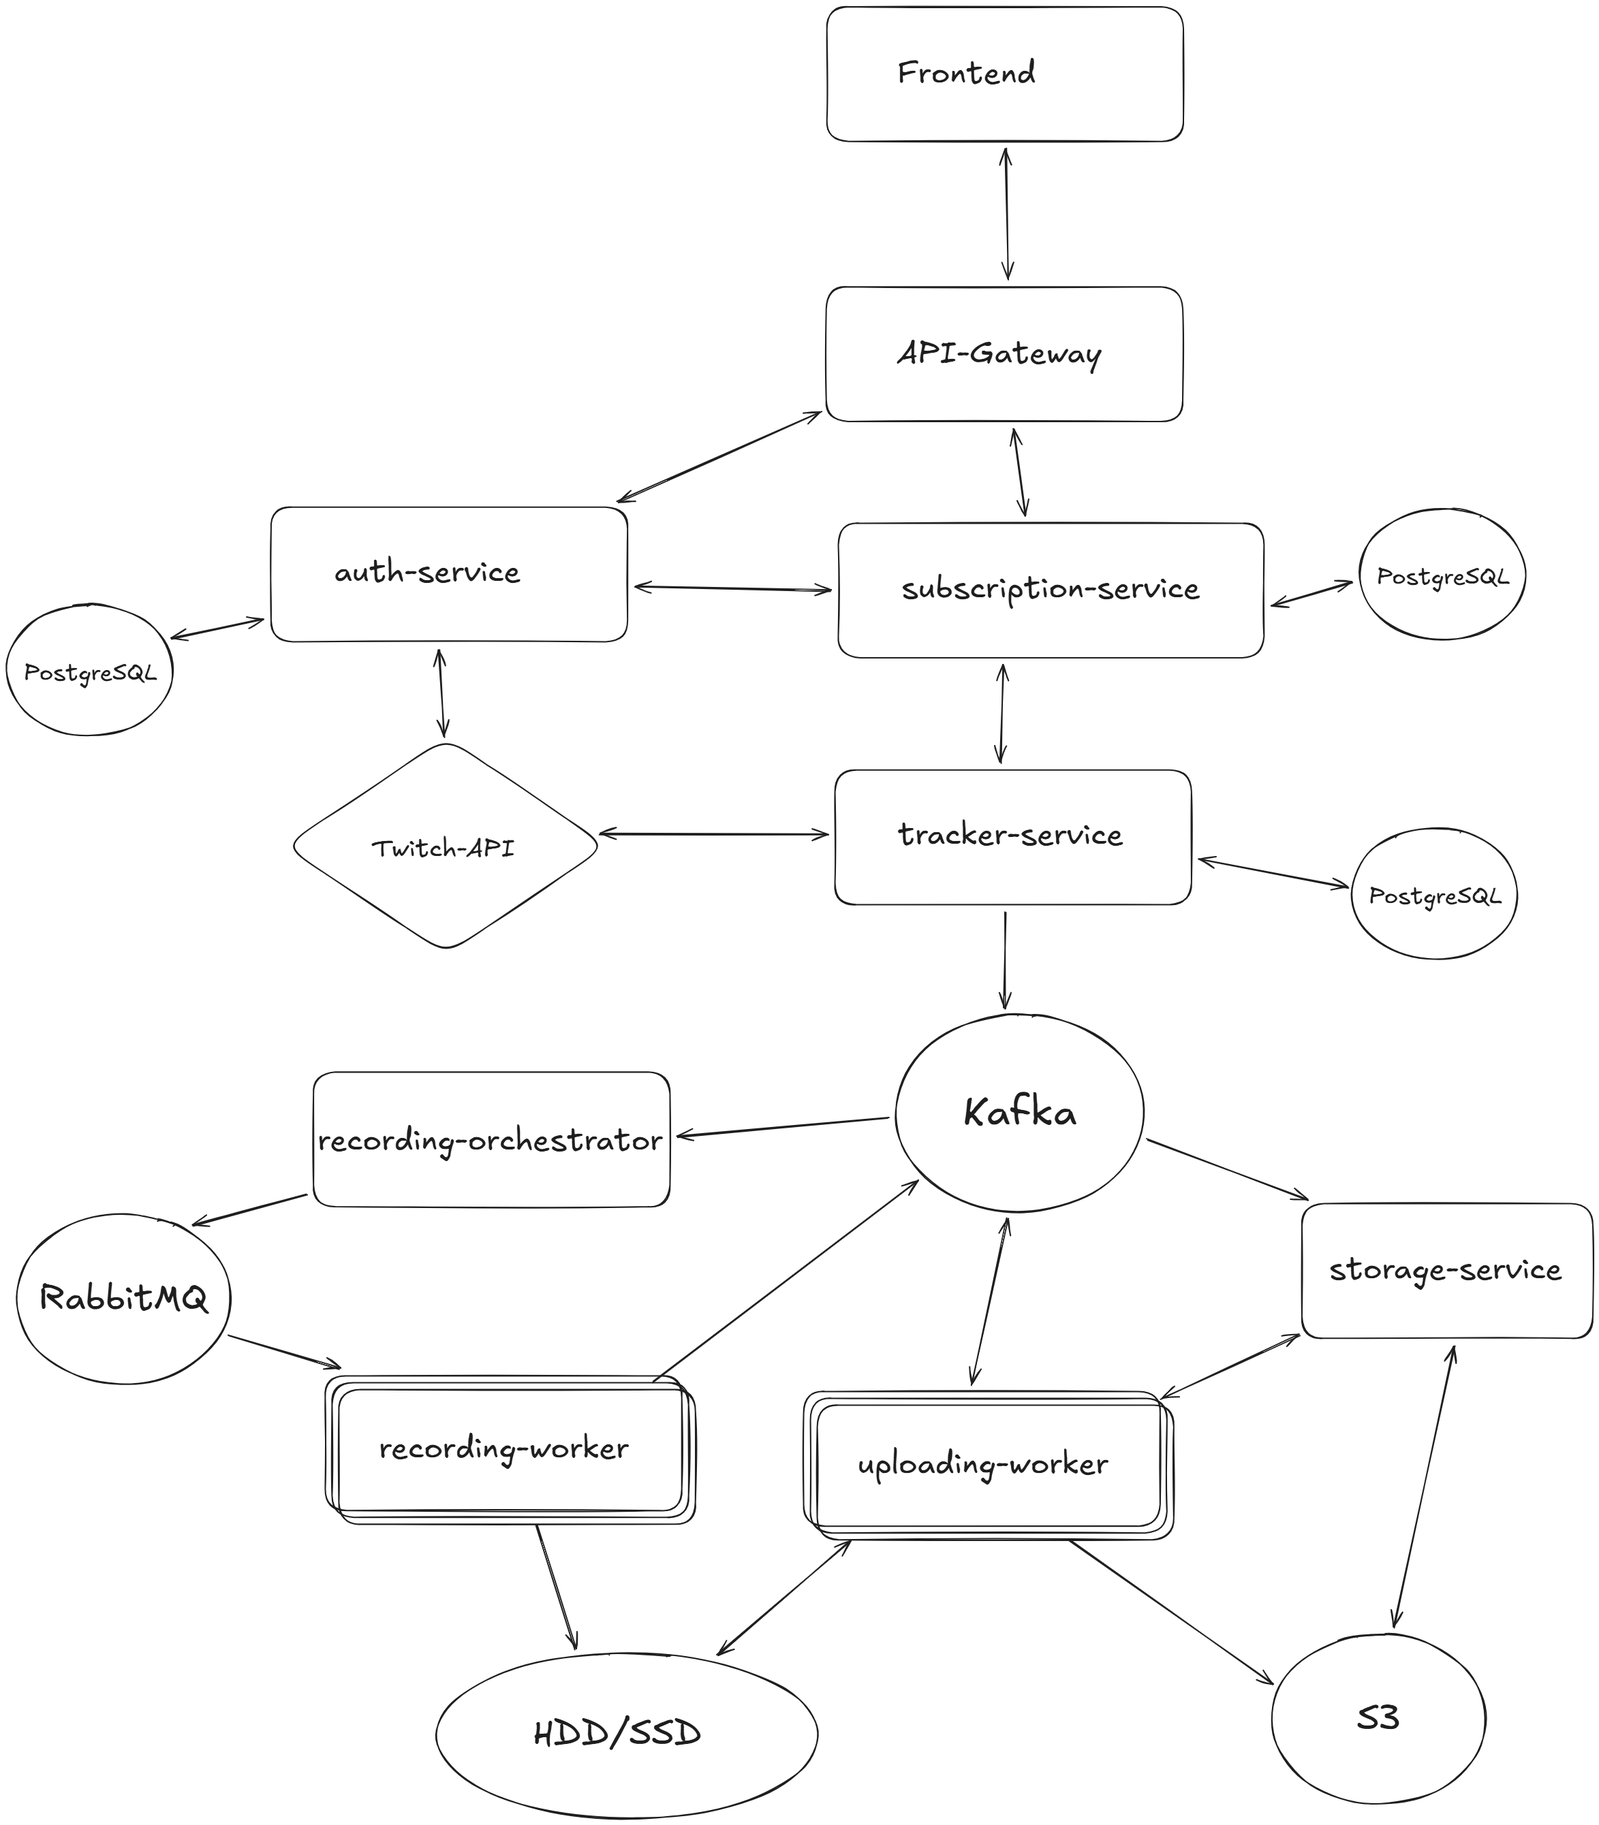
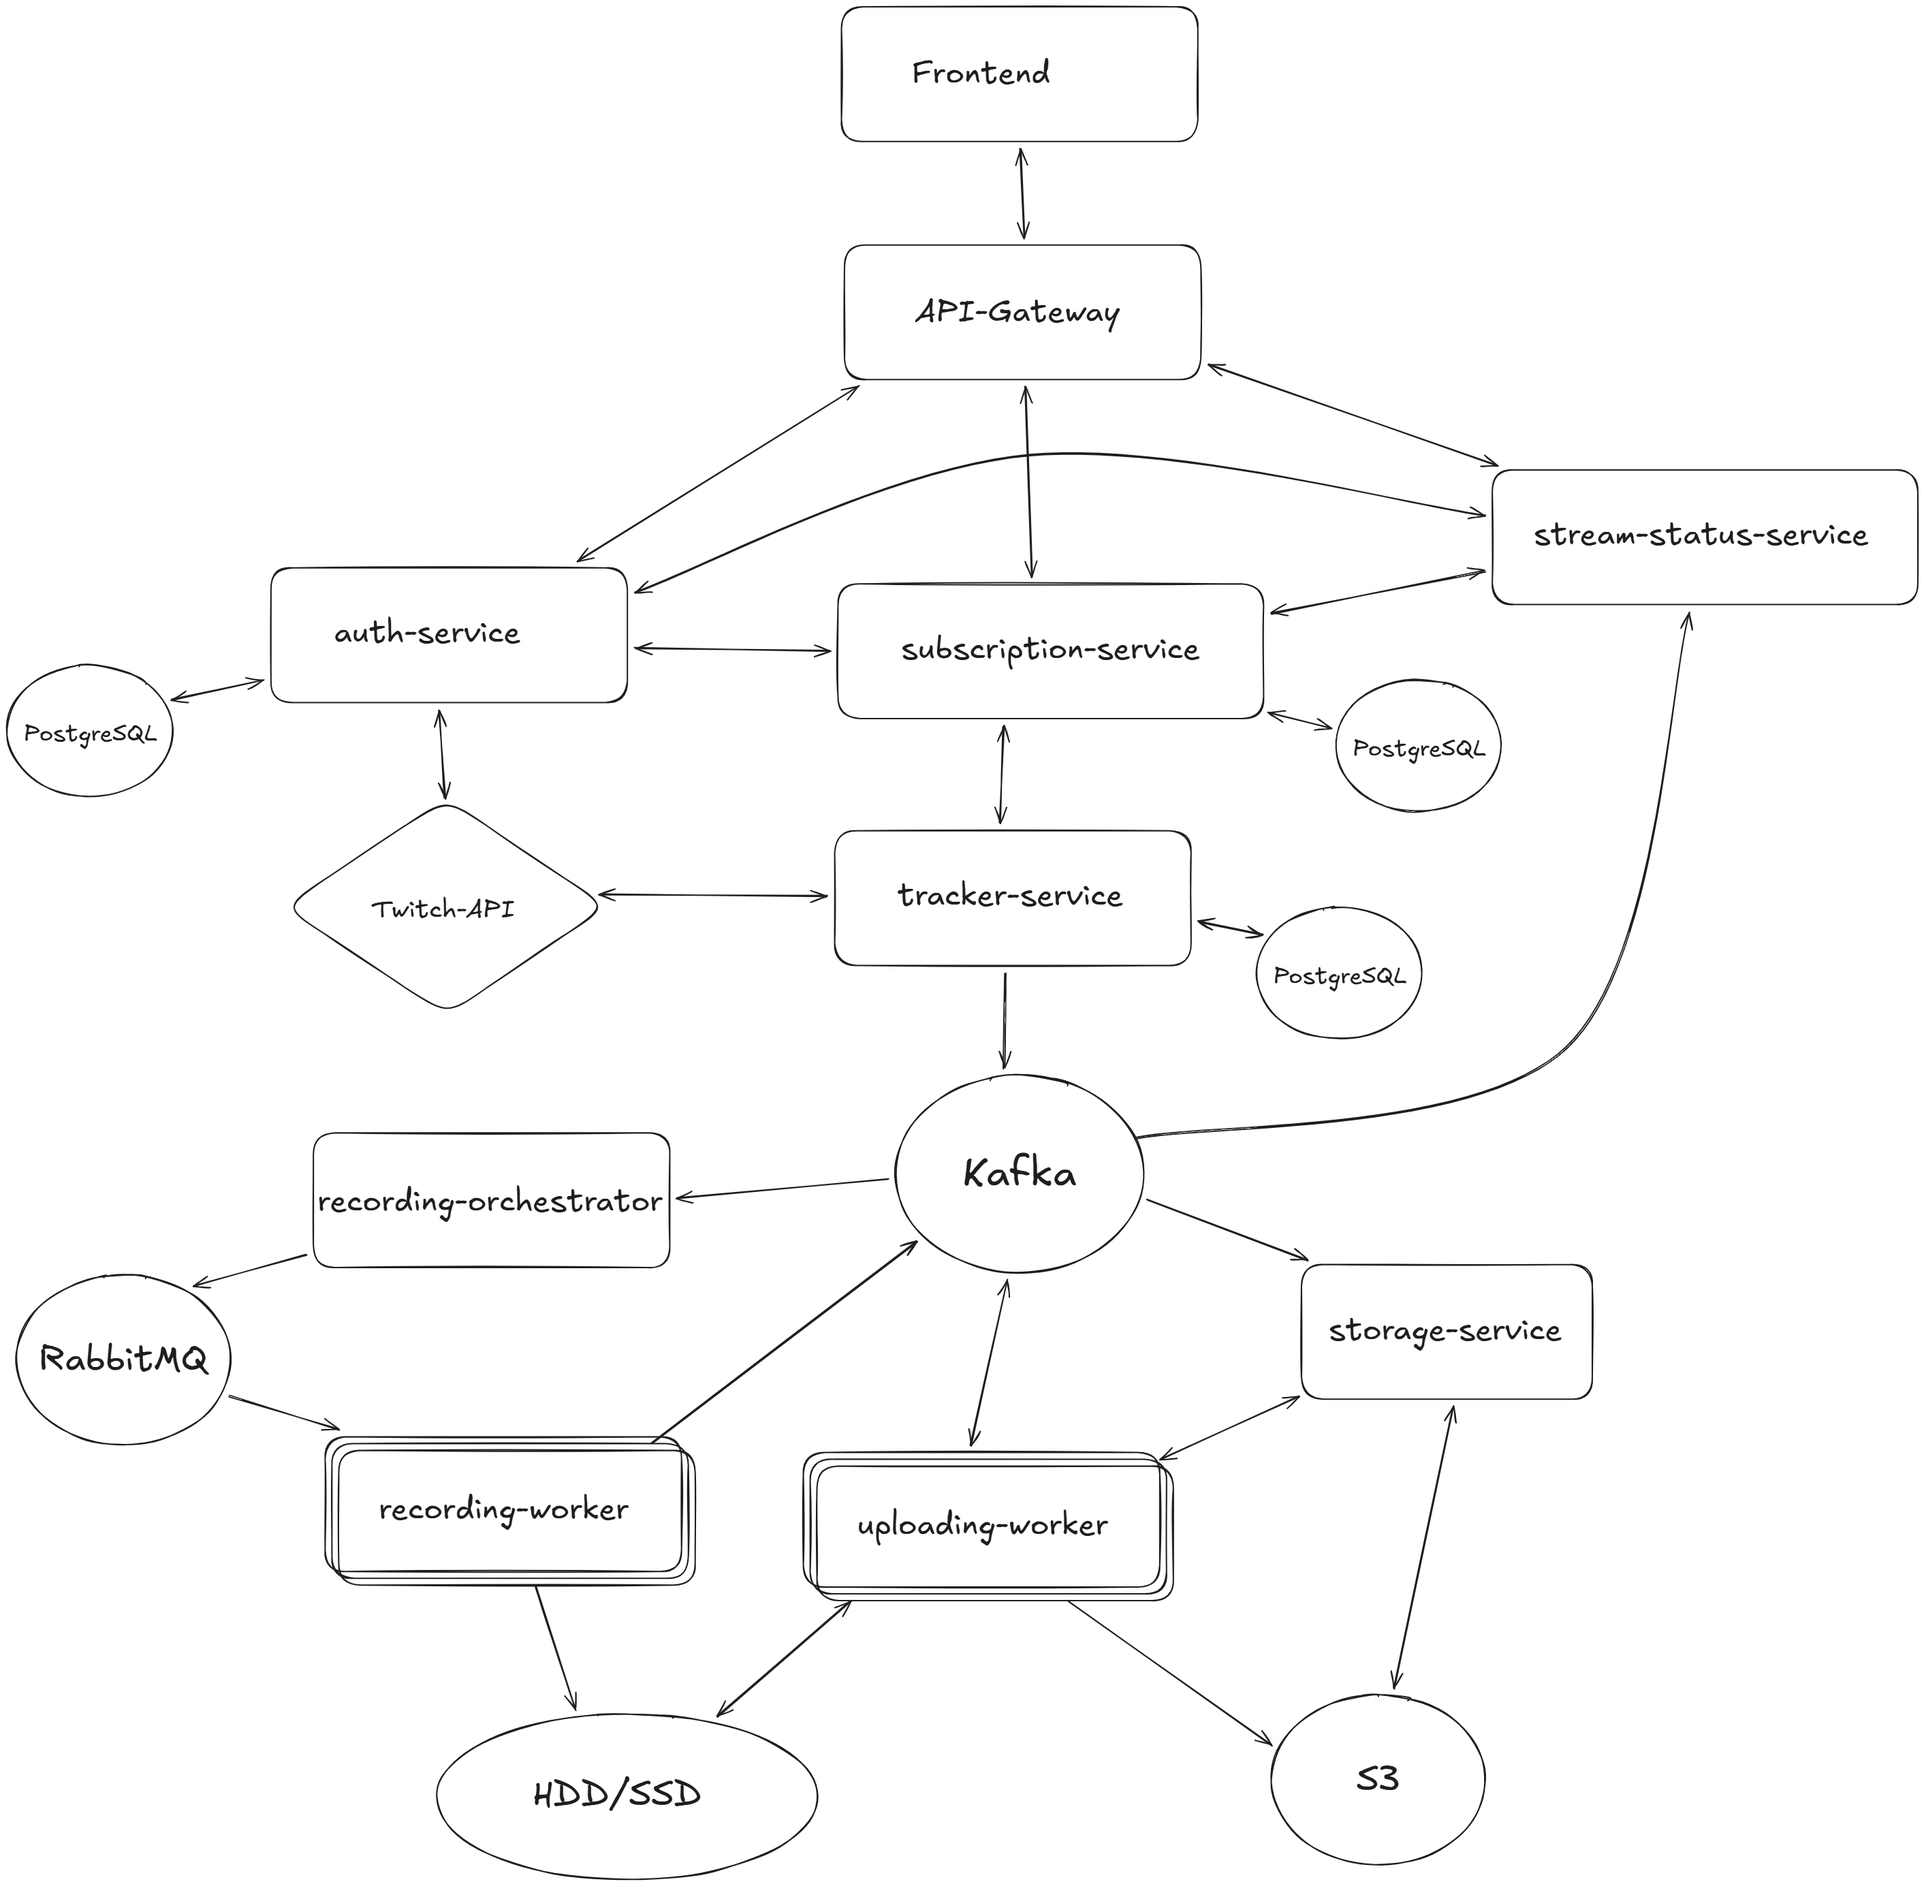
docs: update README with SSE stream status support

diff --git a/README.md b/README.md
@@ -7,7 +7,8 @@ No manual actions are required after the streamer is added.
 The system is built as a set of loosely coupled services connected through HTTP APIs and message queues.
 
 User-facing actions go through an API Gateway, which routes requests to dedicated backend services.
-Stream lifecycle events are propagated asynchronously through Kafka and RabbitMQ, allowing recording and uploading to be handled independently by background workers.
+Stream lifecycle events are propagated asynchronously through Kafka and RabbitMQ, enabling both
+background processing (recording, uploading) and real-time stream status delivery to clients.
 
 ![Architecture Overview](docs/architecture.png)
 
@@ -21,6 +22,8 @@ Stream lifecycle events are propagated asynchronously through Kafka and RabbitMQ
 - **auth-service** handles user registration and authentication.
 
 - **subscription-service** acts as the entry point for streamer subscriptions and orchestrates streamer tracking by delegating to tracker-service.
+
+- **stream-status-service** aggregates stream lifecycle events and exposes real-time stream status updates to clients via Server-Sent Events (SSE).
 
 - **tracker-service** stores streamer information, manages Twitch webhook subscriptions, and detects stream start/end events from Twitch.
 
